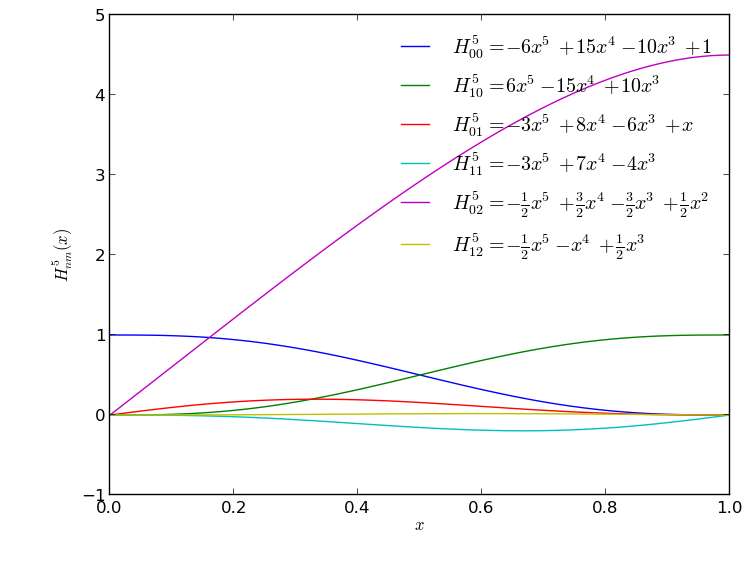
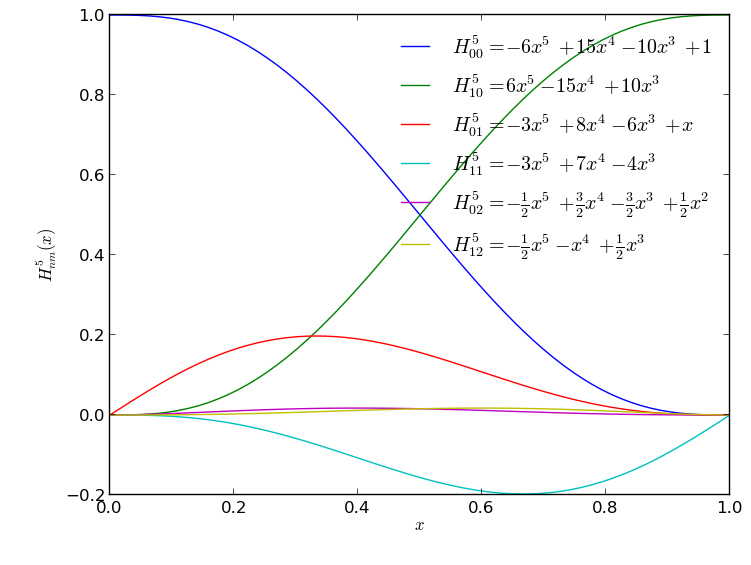
fixed 5th order Hermite interpolation function

diff --git a/doc/scripts/HermiteInterpolation_plotHermite.py b/doc/scripts/HermiteInterpolation_plotHermite.py
@@ -28,7 +28,7 @@ plot(x, -3.*x**5 + 8.* x**4 - 6* x**3 + x, label="$H^5_{01} = -3x^5 + 8 x^4 - 6 
 plot(x, -3.*x**5 + 7 * x**4 - 4* x**3    , label="$H^5_{11} =  -3x^5 + 7 x^4 - 4 x^3$"    )
 
 # tfrac is not working, why ? included in preemble
-plot(x, - 0.5 * x**5 + 1.5 * x*4 - 1.5* x**3 + 0.5 * x**2 , \
+plot(x, - 0.5 * x**5 + 1.5 * x**4 - 1.5* x**3 + 0.5 * x**2, \
     label="$H^5_{02} =  -\\frac{1}{2}x^5 + \\frac{3}{2} x^4 - \\frac{3}{2} x^3 + \\frac{1}{2} x^2$")
 plot(x,   0.5 * x**5 - x**4 + 0.5 * x**3, label="$ H^5_{12} =  -\\frac{1}{2}x^5 - x^4 + \\frac{1}{2} x^3$")
 
